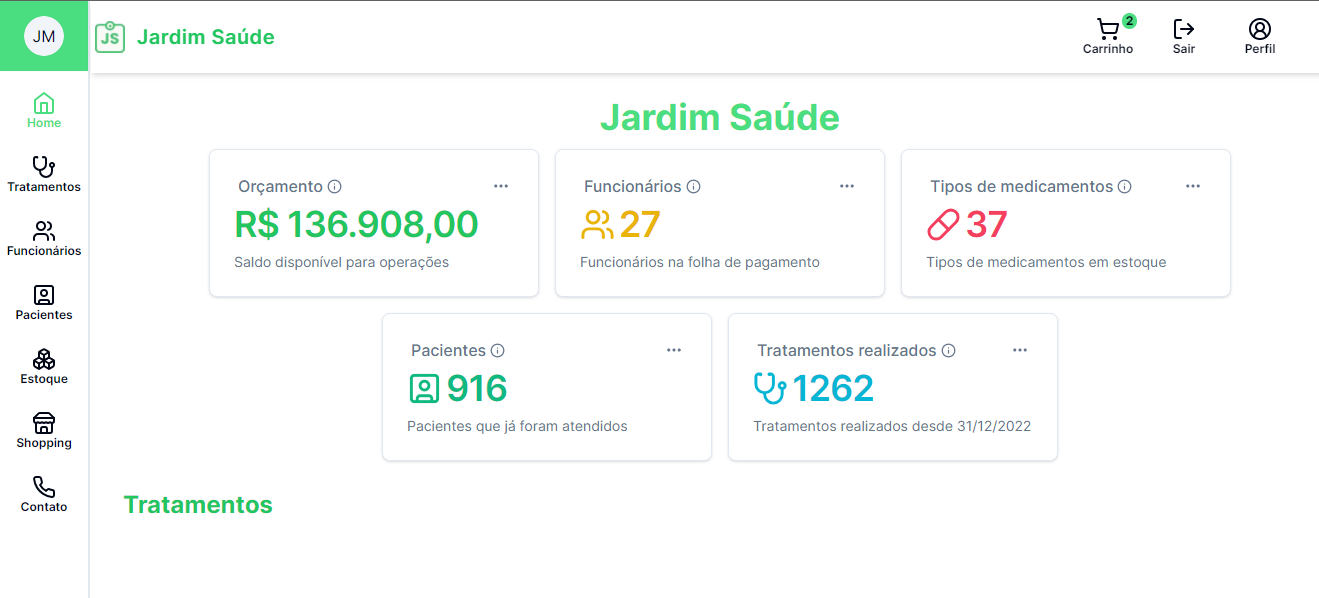
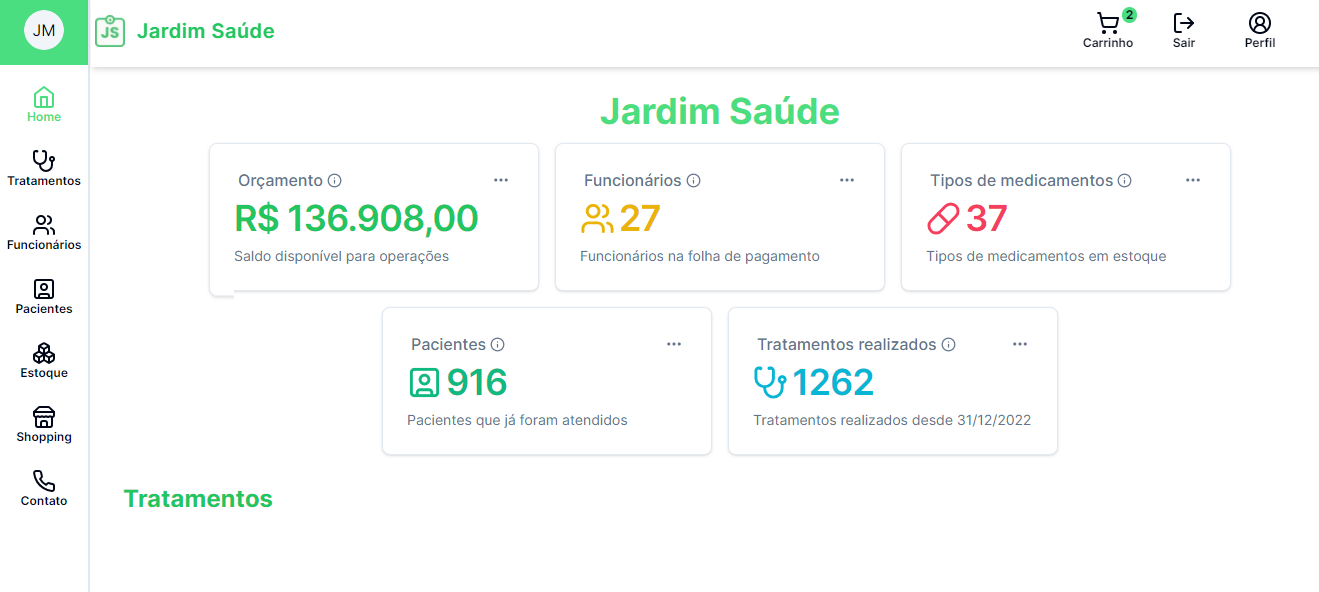
style: add header

diff --git a/src/components/header/style.ts b/src/components/header/style.ts
@@ -1,0 +1,102 @@
+import styled from "styled-components"
+
+export const Container = styled.header`
+    display: flex;
+    width:100%;
+    padding-top: 70px;
+    height:100vh;
+    background-color: var(--primary-color);
+`
+
+export const TextArea = styled.div`
+    display: flex;
+    justify-content: center;
+    flex-direction: column;
+    align-items: start;
+    padding-left: 5%;
+    width: 40%;
+    height: 100%;
+    background-color: var(--primary-color);
+    @media (max-width: 1100px){
+        width: 100%;
+        align-items: center;
+        justify-content: cneter;
+        padding-left:0%;
+        height: 100vh;
+    }
+`
+
+export const SubTitle = styled.h3`
+    font-size: 20px;
+    letter-spacing: 2px;
+    font-weight: 500;
+    color:var(--dark-color);
+`
+
+export const Title = styled.h1`
+    font-size: 3.75rem; 
+    line-height: 1; 
+    font-weight: 700;
+    color:var(--secondary-color);
+`
+
+export const SubText = styled.p`
+    font-size:16px;
+    letter-spacing: 1.5px;
+    font-weight: 500;
+    padding-left: 6px;
+    color:inherit;
+`
+
+export const ImageContainer = styled.div`
+    display: flex;
+    width: 60%;
+    height: 100%;
+    align-items: center;
+    padding: 0px 1%;
+    justify-content: center;
+    background-color: var(--primary-color);
+    @media (max-width: 1100px){
+        display:none;
+    }
+`
+
+export const ImageBanner = styled.img`
+    height:330px;
+    width:700px;
+    border-radius: 12px;
+    display: flex;
+    box-shadow: 0 1px 3px 0 var(--secondary-color), 0 1px 2px -1px var(--secondary-color);
+
+    @media (max-width: 1100px){
+        display: none; 
+    }
+`
+export const ButtonContainer = styled.div`
+    display: flex;
+    justify-content: start;
+    align-items: center;
+    margin-top: 15px;
+    gap:15px;
+`
+
+export const LinkText = styled.p`
+    color:var(--secondary-color);
+    text-decoration:underline;
+    font-size:18px;
+    font-weight: 500;
+    display:flex;
+    flex-direction: row;
+`
+
+export const GitHubButton = styled.button`
+    padding: 12px 10px;
+    background-color: var(--dark-color);
+    color: var(--primary-color);
+    font-weight: 300;
+    display:flex;
+    justify-content: center;
+    align-items: center;
+    transition: all ease 0.1s;
+    border-radius: 8px;
+`

diff --git a/src/components/navbar/index.tsx b/src/components/navbar/index.tsx
@@ -1,6 +1,6 @@
-import { ImageLogo, LoginButton, NavBarContainer, NavBarItem, NavBarItemsContainer, NavBarLogo, TextLogo } from "./style"
+import { ImageLogo, LoginButton, NavBarContainer, NavBarItem, NavBarItemsContainer, NavBarLogo, SideMenuContainer, TextLogo } from "./style"
 import Logo from "../../assets/img/logoJardimSaude.png"
-import { ExternalLink } from "lucide-react"
+import { CircleHelp, ClipboardPlus, ExternalLink, Milestone, Settings2, ShieldEllipsis, SquareUserRound, Stethoscope, Syringe, TrendingUp } from "lucide-react"
 import { SideMenu } from "./sideMenu"
 
 export const NavBar = () => {
@@ -10,22 +10,23 @@ export const NavBar = () => {
                 <ImageLogo src={Logo}/>
                 <TextLogo>Jardim Sáude</TextLogo>
             </NavBarLogo>
-            <div className="max-sm:flex hidden">
+
+            <SideMenuContainer>
                 <SideMenu/>
-            </div>
+            </SideMenuContainer>
 
             <NavBarItemsContainer>
-                <NavBarItem href="#">Sobre</NavBarItem>
-                <NavBarItem href="#">Médicos</NavBarItem>
-                <NavBarItem href="#">Secretárias</NavBarItem>
-                <NavBarItem href="#">Tratamentos</NavBarItem>
-                <NavBarItem href="#">Medicamentos</NavBarItem>
-                <NavBarItem href="#">Limitações</NavBarItem>
-                <NavBarItem href="#">Próximas melhorias</NavBarItem>
+                <NavBarItem href="#"><CircleHelp size={18}/> Sobre</NavBarItem>
+                <NavBarItem href="#"><ClipboardPlus size={18} />Médicos</NavBarItem>
+                <NavBarItem href="#"><SquareUserRound size={18} />Secretárias</NavBarItem>
+                <NavBarItem href="#"><Stethoscope size={18} />Tratamentos</NavBarItem>
+                <NavBarItem href="#"><Syringe size={18} />Medicamentos</NavBarItem>
+                <NavBarItem href="#"><Settings2 size={18} />Limitações</NavBarItem>
+                <NavBarItem href="#"><TrendingUp size={18} />Próximas melhorias</NavBarItem>
             </NavBarItemsContainer>
 
             <LoginButton href="https://jardim-saude.vercel.app/login" target="_blank">
-                Login<ExternalLink/>
+                Login
             </LoginButton>
         </NavBarContainer>
     )

diff --git a/src/components/navbar/sideMenu.tsx b/src/components/navbar/sideMenu.tsx
@@ -1,3 +1,4 @@
+import { CircleHelp, ClipboardPlus, MenuIcon, Settings2, SquareUserRound, Stethoscope, Syringe, TrendingUp } from "lucide-react"
 import {
     Sheet,
     SheetContent,
@@ -6,19 +7,22 @@ import {
     SheetTitle,
     SheetTrigger,
 } from "../sheet/sheet"
+import { NavBarItemsContainer, NavBarItem } from "./style"
 
 export const SideMenu = () => {
     return (
-        <Sheet>
-            <SheetTrigger>Open</SheetTrigger>
-            <SheetContent>
-                <SheetHeader>
-                    <SheetTitle>Are you absolutely sure?</SheetTitle>
-                    <SheetDescription>
-                        This action cannot be undone. This will permanently delete your account
-                        and remove your data from our servers.
-                    </SheetDescription>
-                </SheetHeader>
+        <Sheet >
+            <SheetTrigger>
+                <MenuIcon />
+            </SheetTrigger>
+            <SheetContent className=" bg-white flex-col gap-4 flex">
+                <NavBarItem href="#"><CircleHelp size={18}/> Sobre</NavBarItem>
+                <NavBarItem href="#"><ClipboardPlus size={18} />Médicos</NavBarItem>
+                <NavBarItem href="#"><SquareUserRound size={18} />Secretárias</NavBarItem>
+                <NavBarItem href="#"><Stethoscope size={18} />Tratamentos</NavBarItem>
+                <NavBarItem href="#"><Syringe size={18} />Medicamentos</NavBarItem>
+                <NavBarItem href="#"><Settings2 size={18} />Limitações</NavBarItem>
+                <NavBarItem href="#"><TrendingUp size={18} />Próximas melhorias</NavBarItem>
             </SheetContent>
         </Sheet>
     )

diff --git a/src/components/navbar/style.ts b/src/components/navbar/style.ts
@@ -6,7 +6,7 @@ export const NavBarContainer = styled.nav`
     align-items: center;
     height: 70px;
     position:fixed;
-    background-color: rgb(255 250 252);
+    background-color:#ffffff;
     width:100%;
     box-shadow: 0 1px 3px 0 rgb(0 0 0 / 0.1), 0 1px 2px -1px rgb(0 0 0 / 0.1);
     @media (max-width: 1100px){
@@ -49,8 +49,12 @@ export const NavBarItemsContainer = styled.ul`
 export const NavBarItem = styled.a`
     font-size: 0.975rem;
     line-height: 1.25rem;
-    color: #1f2120;
+    color: var(--dark-color);
     font-weight: 500;
+    display:flex;
+    align-items: center;
+    flex-direction: row;
+    gap:1px;
     transition: all ease 0.1s;
     &:hover{
         color: rgb(22 163 74);
@@ -58,22 +62,24 @@ export const NavBarItem = styled.a`
 `
 
 export const LoginButton = styled.a`
-    padding-left: 12px;
-    padding-right: 12px;
-    padding-top:6px;
-    padding-bottom: 6px;
-    
-    background-color: rgb(34 197 94);
-    color: rgb(248 250 252);
-    width: 35px;
+    padding: 10px 8px;
+    background-color: var(--secondary-color);
+    color: var(--primary-color);
     font-weight: 500;
     display:flex;
     justify-content: center;
     align-items: center;
-    height:24px;
     transition: all ease 0.1s;
     border-radius: 8px;
     &:hover{
         background-color: rgb(22 163 74);
+    }
+`
+
+export const SideMenuContainer = styled.div`
+   display:none;
+   
+   @media (max-width: 1100px){
+        display: flex; 
     }
 `

diff --git a/src/components/header/index.tsx b/src/components/header/index.tsx
@@ -1,0 +1,41 @@
+import { ButtonContainer, Container, GitHubButton, ImageBanner, ImageContainer, LinkText, SubText, SubTitle, TextArea, Title } from "./style"
+import Banner from "../../assets/img/banner-home.png"
+import { ExternalLink, Github } from "lucide-react"
+import { GitHubLogoIcon } from "@radix-ui/react-icons"
+
+export const Header = () => {
+    return (
+        <Container>
+            <TextArea>
+                <Title>
+                    JARDIM SAÚDE
+                </Title>
+                <SubText>
+                    MVP de uma clínica médica
+                </SubText>
+                <ButtonContainer>
+
+                    <LinkText>
+                        <a href="https://jardim-saude.vercel.app/login" target="_blank">
+                            Acessar
+                        </a>
+                        <ExternalLink />
+                    </LinkText>
+
+                    <GitHubButton>
+                        <p><Github /> </p>
+                        <a href="">Frontend</a>
+                    </GitHubButton>
+                    <GitHubButton>
+                        <p><Github /> </p>
+                        <a href="">Backend</a>
+                    </GitHubButton>
+                </ButtonContainer>
+
+            </TextArea>
+            <ImageContainer>
+                <ImageBanner src={Banner} />
+            </ImageContainer>
+        </Container >
+    )
+}

diff --git a/src/index.css b/src/index.css
@@ -4,14 +4,18 @@
 @tailwind components;
 @tailwind utilities;
 
-
+:root{
+  --primary-color:  rgb(253, 253, 253 );
+  --secondary-color: rgb(34 197 94);
+  --dark-color: #1f2120;
+}
 
 body {
   margin: 0;
   font-family: "Inter", sans-serif;
   -webkit-font-smoothing: antialiased;
   -moz-osx-font-smoothing: grayscale;
-  background-color: rgb(34 197 94);
+  background-color: var(--secondary-color);
 }
 
 code {

diff --git a/src/App.tsx b/src/App.tsx
@@ -1,9 +1,13 @@
+import { Header } from "./components/header";
 import { NavBar } from "./components/navbar";
 
 
 function App() {
   return (
-    <NavBar/>
+    <>
+      <NavBar/>
+      <Header/>
+    </>
   );
 }
 
